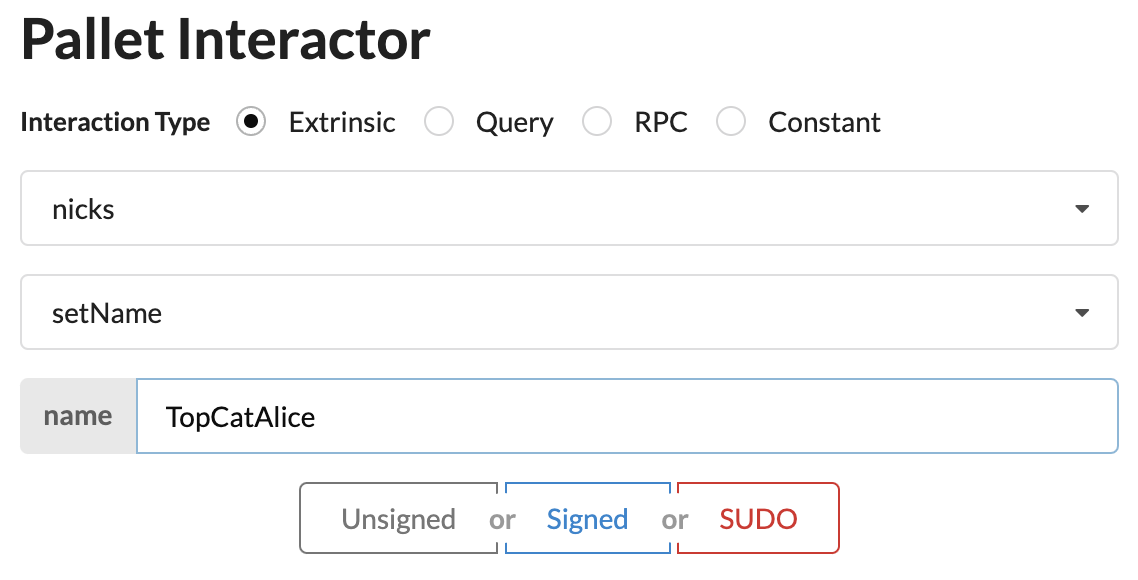
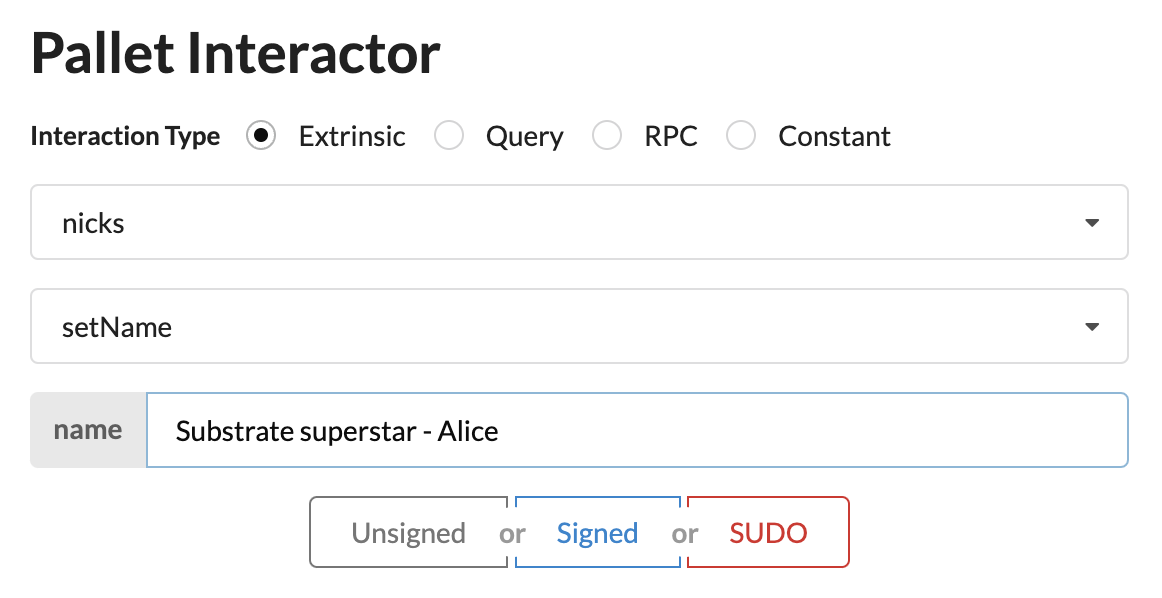
Update images, fix trait types

diff --git a/content/md/en/docs/tutorials/work-with-pallets/add-a-pallet.md b/content/md/en/docs/tutorials/work-with-pallets/add-a-pallet.md
@@ -295,13 +295,13 @@ To set a nickname for an account:
 
 1. Select [`setName`](https://paritytech.github.io/substrate/master/pallet_nicks/pallet/enum.Call.html#variant.set_name) as the function to call from the `nicks` pallet.
 
-   ![Select the pallet and the function to call](/media/images/docs/tutorials/add-a-pallet/set-name-function.png)
-
 1. Type a name that is longer than the `MinNickLength` (8 characters) and no longer than the `MaxNickLength` (32 characters).
+
+   ![Select the pallet and the function to call](/media/images/docs/tutorials/add-a-pallet/set-name-function.png)
 
 1. Click **Signed** to execute the function.
 
-1. Observe the status of the call and the [events](https://paritytech.github.io/substrate/master/pallet_nicks/pallet/enum.Event.html) emitted by the Nicks pallet.
+1. Observe the status of the call change from Ready to InBlock to Finalized and the note the [events](https://paritytech.github.io/substrate/master/pallet_nicks/pallet/enum.Event.html) emitted by the Nicks pallet.
 
    ![Successful update to the nickname for Alice](/media/images/docs/tutorials/add-a-pallet/set-name-result.png)
 
